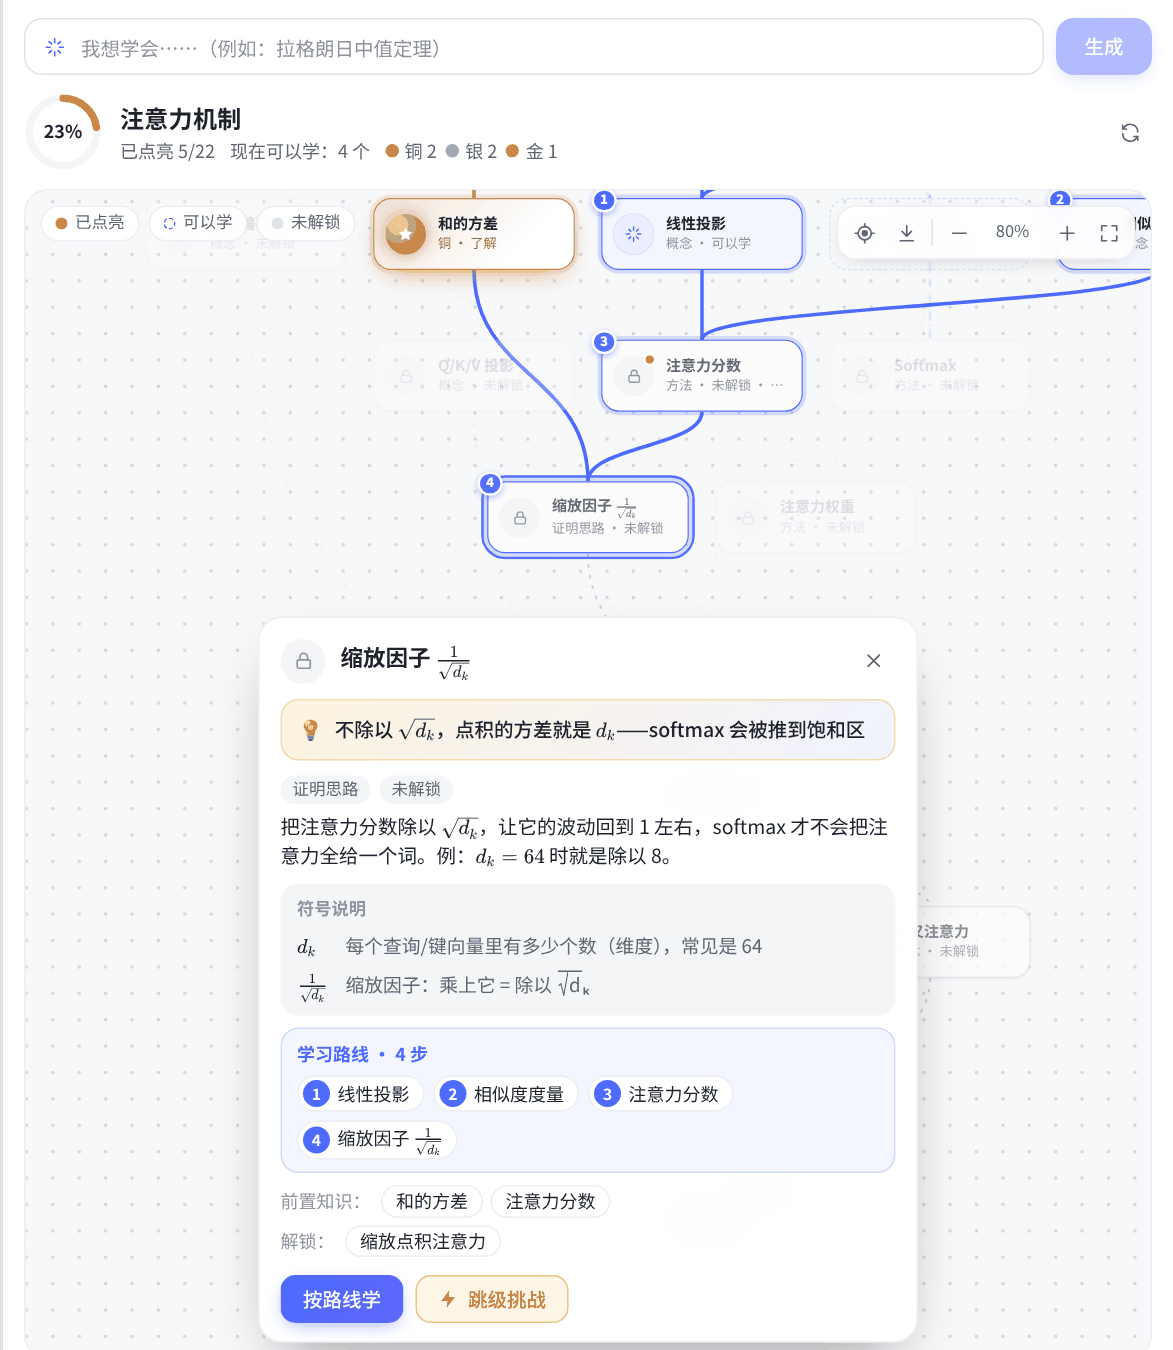
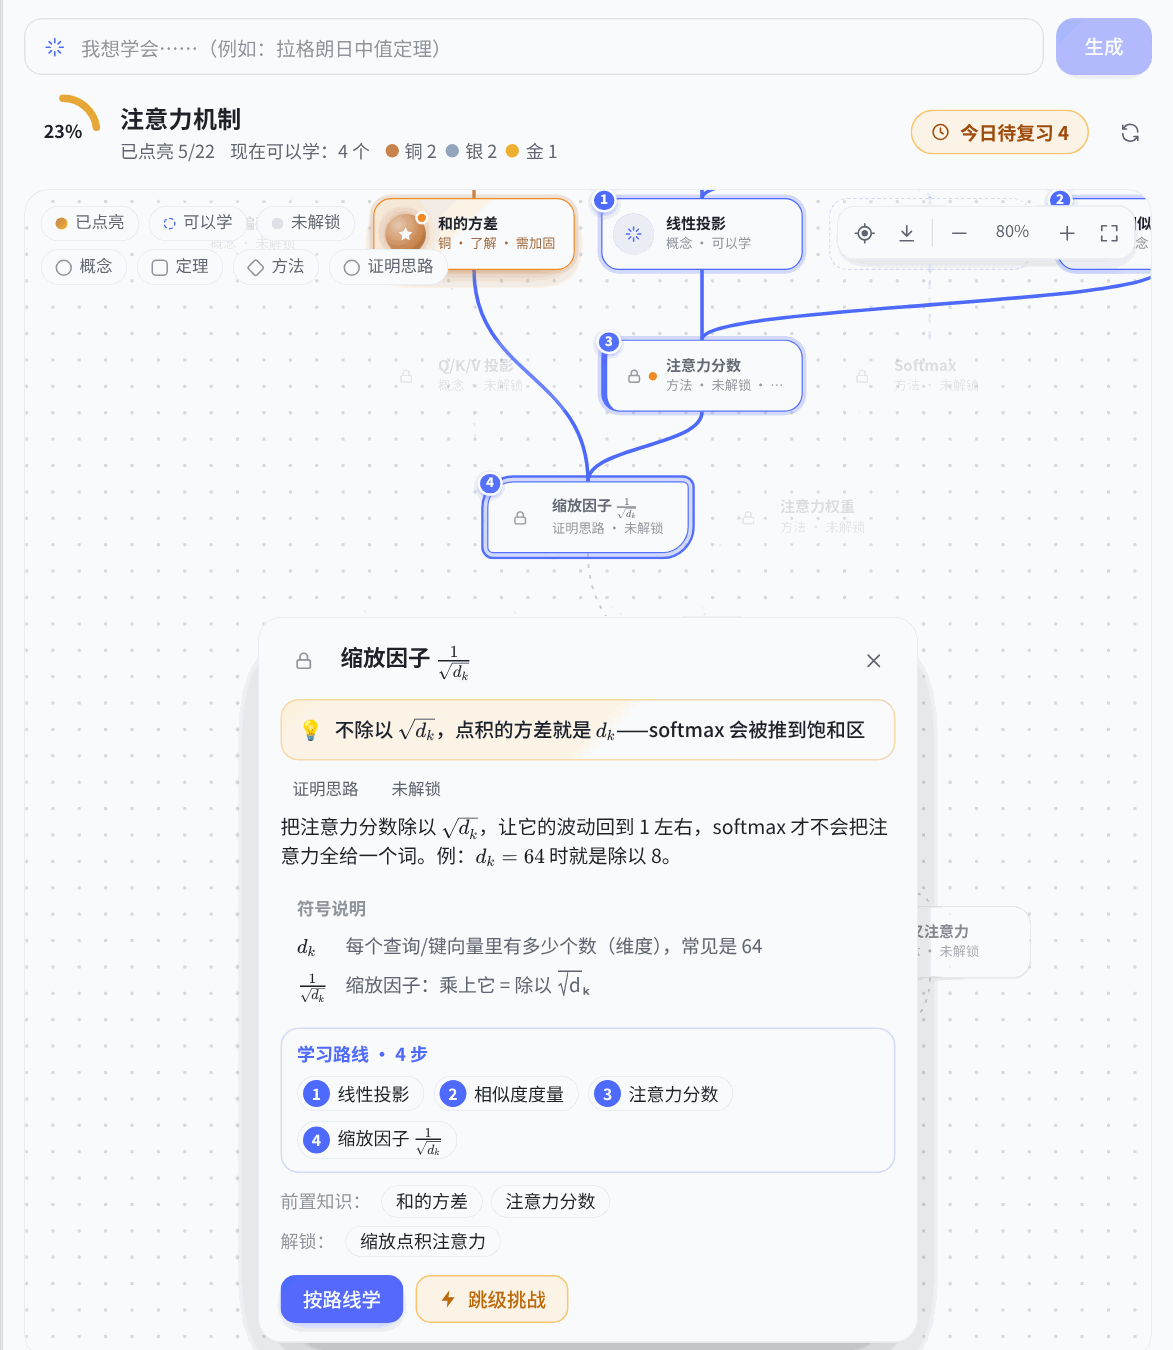
v0.5.0: today's review queue and per-type node shapes
- Today's review: weak and overdue points in one click (hero button, composer chip, left panel)
- Distinct card and badge shapes per knowledge type, larger goal node, type legend, PNG export shapes
- Mouse wheel zooms on Windows with display scaling
- README and screenshots updated

Claude-Session: https://claude.ai/code/session_01P5E4Q3Q9nfzy57pEzZzi8H

diff --git a/client.js b/client.js
@@ -108,6 +108,9 @@ window.__ModuleLoader__.load({
       'medal.summary': '铜 {b} · 银 {s} · 金 {g}',
       'export.footer': '学习天赋树 · DeepSeek Harness',
       'export.filename': '天赋树',
+      'review.today': '今日待复习 {n}',
+      'review.short': '待复习 {n}',
+      'prompt.reviewBatch': '今天要复习这 {n} 个知识点：{list}。请一个一个来：先抛出它的钩子，再出一道题考我；等我回答后用 techtree_record 更新（答得好就刷新复习时间、去掉需加固标记，答得不好就降一级或标记需加固并当场补上），然后进入下一个。全部结束后告诉我今天的复习结果。',
       'chip.open': '打开天赋树',
       'legend.lit': '已点亮',
       'legend.available': '可以学',
@@ -193,6 +196,9 @@ window.__ModuleLoader__.load({
       'medal.summary': 'Bronze {b} · Silver {s} · Gold {g}',
       'export.footer': 'Learning talent tree · DeepSeek Harness',
       'export.filename': 'talent-tree',
+      'review.today': '{n} to review today',
+      'review.short': '{n} due',
+      'prompt.reviewBatch': 'Today I need to review these {n} points: {list}. Go one at a time: open with its hook, then quiz me; after my answer update it with techtree_record (good answer: refresh the review time and clear the needs-work flag; weak answer: drop a level or mark it weak and fix the gap right away), then move on. Summarise today\'s review at the end.',
       'chip.open': 'Open talent tree',
       'legend.lit': 'Lit',
       'legend.available': 'Learnable',
@@ -397,6 +403,32 @@ html.tt-grabbing,html.tt-grabbing *{-webkit-user-select:none!important;user-sele
 .tt-tex>div>*{display:inline!important;margin:0!important;padding:0!important;color:inherit!important;font-size:inherit!important}
 .tt-tex .katex{font-size:1.08em}
 .tt-node-name .tt-tex .katex{font-size:1em}
+.tt-shape-concept{border-radius:15px}
+.tt-shape-theorem{border-radius:5px;border-width:2px}
+.tt-shape-method{border-radius:15px;border-left-width:5px;padding-left:6px}
+.tt-shape-proof_idea{border-radius:22px 5px 22px 5px}
+.tt-shape-skill{border-radius:999px;padding-left:8px}
+.tt-goal-node{scale:1.1;z-index:1}
+.tt-badge-icon{display:grid;place-items:center}
+.tt-bshape-theorem{border-radius:9px}
+.tt-bshape-method{width:29px;height:29px;margin:0 2px;border-radius:7px;transform:rotate(45deg)}
+.tt-bshape-method>.tt-badge-icon{transform:rotate(-45deg)}
+.tt-bshape-method>.tt-dot{transform:rotate(-45deg)}
+.tt-bshape-proof_idea{border-radius:50% 5px 50% 5px}
+.tt-bshape-skill{border-radius:50% 50% 50% 50%/32% 32% 68% 68%}
+.tt-legend{flex-direction:column;align-items:flex-start;gap:5px}
+.tt-legend-row{display:flex;flex-wrap:wrap;gap:6px}
+.tt-mini{display:inline-block;width:11px;height:11px;border:1.5px solid var(--tt-fg3);background:var(--tt-bg2);border-radius:50%}
+.tt-mini.tt-bshape-method{width:9px;height:9px;margin:0 1px;border-radius:2px}
+.tt-mini.tt-bshape-theorem{border-radius:3px}
+.tt-dot-fading{background:#f59e0b}
+.tt-review{display:inline-flex;align-items:center;gap:6px;flex:none;height:30px;padding:0 12px;border-radius:999px;border:1px solid color-mix(in srgb,#f59e0b 55%,transparent);background:color-mix(in srgb,#f59e0b 12%,var(--tt-bg));color:color-mix(in srgb,#b45309 85%,var(--tt-fg));font:inherit;font-size:12.5px;font-weight:650;cursor:pointer;white-space:nowrap;animation:tt-nudge 3s ease-in-out infinite}
+.tt-review:hover{background:color-mix(in srgb,#f59e0b 20%,var(--tt-bg))}
+@keyframes tt-nudge{0%,88%,100%{transform:none}92%{transform:rotate(-3deg)}96%{transform:rotate(3deg)}}
+.tt-chip-due{flex:none;margin-left:2px;padding:0 7px;border-radius:999px;font-size:10.5px;font-weight:700;line-height:18px;color:#92400e;background:#fde68a}
+.tt-lib-name{display:flex;align-items:center;justify-content:space-between;gap:6px}
+.tt-lib-name>span{overflow:hidden;text-overflow:ellipsis;white-space:nowrap}
+@media (prefers-reduced-motion:reduce){.tt-review{animation:none}}
 `
 
     function Style() {
@@ -432,6 +464,7 @@ html.tt-grabbing,html.tt-grabbing *{-webkit-user-select:none!important;user-sele
     const TargetIcon = () => svg(15, [h('circle', { key: 'a', cx: 12, cy: 12, r: 7 }), h('circle', { key: 'b', cx: 12, cy: 12, r: 2.5, fill: 'currentColor' }), h('path', { key: 'c', d: 'M12 2v3M12 19v3M2 12h3M19 12h3' })])
     const DownloadIcon = () => svg(15, [h('path', { key: 'p', d: 'M12 4v11M7 10l5 5 5-5M5 20h14' })])
     const BoltIcon = () => svg(14, [h('path', { key: 'p', d: 'M13 2 4 14h7l-1 8 9-12h-7z', fill: 'currentColor', stroke: 'none' })])
+    const ClockIcon = () => svg(14, [h('circle', { key: 'c', cx: 12, cy: 12, r: 8.5 }), h('path', { key: 'p', d: 'M12 7.5V12l3 2' })])
     const RefreshIcon = () => svg(15, [h('path', { key: 'p', d: 'M20 11a8 8 0 0 0-14.3-4.9L4 8M4 4v4h4M4 13a8 8 0 0 0 14.3 4.9L20 16M20 20v-4h-4' })])
 
     // ---- math ---------------------------------------------------------------
@@ -775,11 +808,42 @@ html.tt-grabbing,html.tt-grabbing *{-webkit-user-select:none!important;user-sele
       return due ? due.id : null
     }
 
+    const NODE_TYPES = ['concept', 'theorem', 'method', 'proof_idea', 'skill']
+
+    /** Today's review queue: points that need shoring up first, then lit points whose review is due (oldest first). */
+    function reviewQueue(nodes, now) {
+      return nodes
+        .filter(n => n.weak || fading(n, now))
+        .sort((a, b) => (b.weak ? 1 : 0) - (a.weak ? 1 : 0) || (a.reviewedAt || 0) - (b.reviewedAt || 0))
+    }
+
+    function reviewPrompt(t, due) {
+      return fill(t('prompt.reviewBatch'), { list: due.map(n => `${richToPlain(n.name)}（${n.id}）`).join('、'), n: due.length })
+    }
+
     // ---- export -------------------------------------------------------------
 
     const EXPORT_FONT = '"PingFang SC","Microsoft YaHei","Noto Sans CJK SC",system-ui,sans-serif'
     const EXPORT_MEDAL = ['', '#c8834c', '#93a4bd', '#eeb031']
     const EXPORT_TINT = ['', '#f7e9dc', '#e8eef6', '#fcf1d4']
+
+    /** Card corner radii per knowledge type (matches the .tt-shape-* styles). */
+    function exportRadii(type, h) {
+      if (type === 'theorem') return 5
+      if (type === 'proof_idea') return [22, 5, 22, 5]
+      if (type === 'skill') return h / 2
+      return 15
+    }
+
+    /** Badge outline per knowledge type (matches the .tt-bshape-* styles). */
+    function exportBadgePath(c, type, x, y, r) {
+      c.beginPath()
+      if (type === 'theorem') c.roundRect(x - r, y - r, 2 * r, 2 * r, 9)
+      else if (type === 'method') { const d = r * 1.2; c.moveTo(x, y - d); c.lineTo(x + d, y); c.lineTo(x, y + d); c.lineTo(x - d, y); c.closePath() }
+      else if (type === 'proof_idea') c.roundRect(x - r, y - r, 2 * r, 2 * r, [r, 5, r, 5])
+      else if (type === 'skill') c.roundRect(x - r, y - r, 2 * r, 2 * r, [r, r, r * 1.3, r * 1.3])
+      else c.arc(x, y, r, 0, Math.PI * 2)
+    }
 
     function fitText(c, text, max) {
       if (c.measureText(text).width <= max) return text
@@ -871,7 +935,8 @@ html.tt-grabbing,html.tt-grabbing *{-webkit-user-select:none!important;user-sele
         const m = n.mastery || 0
         c.save()
         if (state === 'lit') { c.shadowColor = EXPORT_MEDAL[m]; c.shadowBlur = 14 }
-        c.beginPath(); c.roundRect(x, y, NODE_W, cardH, 15)
+        const radii = exportRadii(n.type, cardH)
+        c.beginPath(); c.roundRect(x, y, NODE_W, cardH, radii)
         if (state === 'lit') {
           const g = c.createLinearGradient(x, y, x + NODE_W, y + cardH)
           g.addColorStop(0, EXPORT_TINT[m]); g.addColorStop(0.75, '#ffffff')
@@ -882,13 +947,18 @@ html.tt-grabbing,html.tt-grabbing *{-webkit-user-select:none!important;user-sele
         c.setLineDash(state === 'available' ? [5, 4] : [])
         c.lineWidth = goalIds.has(n.id) ? 2.4 : 1.5
         c.strokeStyle = n.weak ? '#f08a24' : state === 'lit' ? EXPORT_MEDAL[m] : state === 'available' ? '#4d6bfe' : '#d5d9df'
-        c.beginPath(); c.roundRect(x, y, NODE_W, cardH, 15); c.stroke()
+        c.lineWidth = n.type === 'theorem' ? Math.max(c.lineWidth, 2) : c.lineWidth
+        c.beginPath(); c.roundRect(x, y, NODE_W, cardH, radii); c.stroke()
+        if (n.type === 'method') {
+          c.fillStyle = c.strokeStyle
+          c.beginPath(); c.roundRect(x, y + 6, 5, cardH - 12, 2.5); c.fill()
+        }
         c.setLineDash([])
         // Badge
         const bx = x + 26
         const by = y + NODE_H / 2
         c.fillStyle = state === 'lit' ? EXPORT_MEDAL[m] : state === 'available' ? '#dfe5ff' : '#e6e8ec'
-        c.beginPath(); c.arc(bx, by, 17, 0, Math.PI * 2); c.fill()
+        exportBadgePath(c, n.type, bx, by, 17); c.fill()
         c.fillStyle = state === 'lit' ? '#ffffff' : state === 'available' ? '#4d6bfe' : '#8f959e'
         c.font = `700 15px ${EXPORT_FONT}`
         c.textAlign = 'center'
@@ -1069,8 +1139,13 @@ html.tt-grabbing,html.tt-grabbing *{-webkit-user-select:none!important;user-sele
         mini ? null : h('b', null, `${Math.round(ratio * 100)}%`))
     }
 
-    function Hero({ t, title, nodes, extra }) {
+    function Hero({ t, title, nodes, extra, onReview }) {
       const s = stats(nodes)
+      const due = reviewQueue(nodes, Date.now())
+      const review = due.length && onReview
+        ? h('button', { type: 'button', className: 'tt-review', title: due.map(n => richToPlain(n.name)).join('、'), onClick: () => onReview(due) },
+          h(ClockIcon), fill(t('review.today'), { n: due.length }))
+        : null
       return h('div', { className: 'tt-hero' },
         h(ProgressRing, { lit: s.lit, total: s.total }),
         h('div', { className: 'tt-hero-text' },
@@ -1080,6 +1155,7 @@ html.tt-grabbing,html.tt-grabbing *{-webkit-user-select:none!important;user-sele
             h('span', null, fill(t('frontier'), { n: s.frontier })),
             h('span', { className: 'tt-medals' }, [1, 2, 3].map(level => h('span', { key: level, className: 'tt-medal', title: t(`level.${level}`) },
               h('i', { style: { background: ['', '#c8834c', '#93a4bd', '#eeb031'][level] } }), `${t(`medal.${level}`)} ${s.medals[level]}`))))),
+        review,
         extra || null)
     }
 
@@ -1121,7 +1197,7 @@ html.tt-grabbing,html.tt-grabbing *{-webkit-user-select:none!important;user-sele
         if (!el || !el.clientWidth || !el.clientHeight) return null
         // Room for the legend / zoom bar above and the hint below.
         const padX = 28
-        const padTop = 58
+        const padTop = 92
         const padBottom = 40
         const k = clamp(Math.min((el.clientWidth - padX * 2) / width, (el.clientHeight - padTop - padBottom) / height, 1), MIN_ZOOM, 1)
         return { k, x: (el.clientWidth - width * k) / 2, y: Math.max(padTop, padTop + (el.clientHeight - padTop - padBottom - height * k) / 2) }
@@ -1209,7 +1285,10 @@ html.tt-grabbing,html.tt-grabbing *{-webkit-user-select:none!important;user-sele
         const onWheel = event => {
           event.preventDefault()
           const rect = el.getBoundingClientRect()
-          const mouseWheel = event.deltaMode !== 0 || (event.deltaX === 0 && Math.abs(event.deltaY) >= 40 && Number.isInteger(event.deltaY))
+          // A mouse wheel moves in notches (wheelDelta multiples of 120, or line/page mode); with
+          // display scaling its pixel delta is fractional, so the delta alone cannot tell it apart.
+          const notch = typeof event.wheelDeltaY === 'number' && event.wheelDeltaY !== 0 && event.wheelDeltaY % 120 === 0
+          const mouseWheel = event.deltaMode !== 0 || (event.deltaX === 0 && (notch || Math.abs(event.deltaY) >= 50))
           if (event.ctrlKey || event.metaKey || mouseWheel) {
             zoomAt(event.clientX - rect.left, event.clientY - rect.top, Math.exp(-clamp(event.deltaY, -60, 60) * (event.ctrlKey ? 0.01 : 0.004)))
           } else {
@@ -1311,9 +1390,18 @@ html.tt-grabbing,html.tt-grabbing *{-webkit-user-select:none!important;user-sele
 
     function Badge({ state, node, isGoal }) {
       const icon = state === 'lit' ? h(StarIcon) : state === 'available' ? h(SparkIcon, { size: 16 }) : isGoal ? h(FlagIcon) : h(LockIcon)
+      const shape = `tt-bshape-${NODE_TYPES.includes(node.type) ? node.type : 'concept'}`
       const cls = state === 'lit' ? `tt-badge tt-badge-lit tt-m-${node.mastery}` : state === 'available' ? 'tt-badge tt-badge-available' : isGoal ? 'tt-badge tt-badge-goal' : 'tt-badge'
-      return h('span', { className: cls }, icon,
-        node.weak ? h('i', { className: 'tt-dot tt-dot-weak' }) : null)
+      return h('span', { className: `${cls} ${shape}` }, h('span', { className: 'tt-badge-icon' }, icon),
+        node.weak ? h('i', { className: 'tt-dot tt-dot-weak' }) : fading(node, Date.now()) ? h('i', { className: 'tt-dot tt-dot-fading' }) : null)
+    }
+
+    /** Small badge-shaped swatch per knowledge type, for the legend. */
+    function TypeLegend({ t, nodes }) {
+      const present = NODE_TYPES.filter(type => nodes.some(n => (n.type || 'concept') === type))
+      if (present.length < 2) return null
+      return h('div', { className: 'tt-legend-row' }, present.map(type => h('span', { key: type, className: 'tt-pill' },
+        h('span', { className: `tt-mini tt-bshape-${type}` }), t(`type.${type}`))))
     }
 
     const SPARKS = [0, 45, 90, 135, 180, 225, 270, 315]
@@ -1359,7 +1447,7 @@ html.tt-grabbing,html.tt-grabbing *{-webkit-user-select:none!important;user-sele
           const isGoal = goalIds.has(n.id)
           const fade = fading(n, now)
           const lit = celebrate && celebrate.ids.has(n.id)
-          const cls = ['tt-node',
+          const cls = ['tt-node', `tt-shape-${NODE_TYPES.includes(n.type) ? n.type : 'concept'}`,
             state === 'lit' ? `tt-lit-${n.mastery}` : `tt-${state}`,
             fade ? 'tt-fading' : '',
             n.weak ? 'tt-weak' : '',
@@ -1525,9 +1613,11 @@ html.tt-grabbing,html.tt-grabbing *{-webkit-user-select:none!important;user-sele
           () => notify(t('toast.exportFailed')))
       }
       const legend = h('div', { className: 'tt-overlay tt-legend' },
-        h('span', { className: 'tt-pill' }, h('i', { style: { background: 'linear-gradient(135deg,#c8834c,#eeb031)' } }), t('legend.lit')),
-        h('span', { className: 'tt-pill' }, h('i', { style: { border: '1.5px dashed var(--tt-brand)' } }), t('legend.available')),
-        h('span', { className: 'tt-pill' }, h('i', { style: { background: 'var(--tt-line)' } }), t('legend.locked')))
+        h('div', { className: 'tt-legend-row' },
+          h('span', { className: 'tt-pill' }, h('i', { style: { background: 'linear-gradient(135deg,#c8834c,#eeb031)' } }), t('legend.lit')),
+          h('span', { className: 'tt-pill' }, h('i', { style: { border: '1.5px dashed var(--tt-brand)' } }), t('legend.available')),
+          h('span', { className: 'tt-pill' }, h('i', { style: { background: 'var(--tt-line)' } }), t('legend.locked'))),
+        h(TypeLegend, { t, nodes }))
       const tools = h(React.Fragment, null,
         recommended ? h('button', { type: 'button', className: 'tt-icon-btn', title: t('action.recommend'), 'aria-label': t('action.recommend'), onClick: locate }, h(TargetIcon)) : null,
         h('button', { type: 'button', className: 'tt-icon-btn', title: t('action.export'), 'aria-label': t('action.export'), onClick: doExport }, h(DownloadIcon)),
@@ -1573,7 +1663,7 @@ html.tt-grabbing,html.tt-grabbing *{-webkit-user-select:none!important;user-sele
           ? h(Empty, { t })
           : h(React.Fragment, null,
             h(Hero, {
-              t, title, nodes,
+              t, title, nodes, onReview: due => act(reviewPrompt(t, due)),
               extra: h('button', { type: 'button', className: 'tt-icon-btn', title: t('action.refresh'), 'aria-label': t('action.refresh'), onClick: () => act(t('prompt.refresh')) }, h(RefreshIcon)),
             }),
             h(Stage, { t, title, nodes, goalIds, act, fitKey: `${goalKey}:${nodes.length}` })))
@@ -1641,7 +1731,7 @@ html.tt-grabbing,html.tt-grabbing *{-webkit-user-select:none!important;user-sele
                 'aria-current': entry && entry.goal.id === e.goal.id ? 'true' : 'false',
                 onClick: () => setPicked(e.goal.id),
               },
-              h('span', { className: 'tt-lib-name' }, e.goal.name),
+              h('span', { className: 'tt-lib-name' }, h('span', null, e.goal.name), reviewQueue(e.nodes, now).length ? h('b', { className: 'tt-chip-due' }, fill(t('review.short'), { n: reviewQueue(e.nodes, now).length })) : null),
               h('span', { className: 'tt-bar' }, h('i', { style: { width: `${s.total ? (s.lit / s.total) * 100 : 0}%` } })),
               h('span', { className: 'tt-lib-row' }, h('span', null, fill(t('progress'), { lit: s.lit, total: s.total })), h('span', null, fill(t('medal.summary'), { b: s.medals[1], s: s.medals[2], g: s.medals[3] }))))
             })),
@@ -1651,7 +1741,7 @@ html.tt-grabbing,html.tt-grabbing *{-webkit-user-select:none!important;user-sele
             ? h(Empty, { t, body: t('library.empty') })
             : h(React.Fragment, null,
               h(Hero, {
-                t, title: entry.goal.name, nodes: entry.nodes,
+                t, title: entry.goal.name, nodes: entry.nodes, onReview: due => resume(reviewPrompt(t, due)),
                 extra: h('button', { type: 'button', className: 'tt-btn tt-btn-primary', onClick: () => resume(t('prompt.continue')) }, t('action.continue')),
               }),
               h(Stage, { key: entry.goal.id, t, title: entry.goal.name, nodes: entry.nodes, goalIds, act: resume, fitKey: `${entry.goal.id}:${entry.nodes.length}` }))))
@@ -1671,10 +1761,12 @@ html.tt-grabbing,html.tt-grabbing *{-webkit-user-select:none!important;user-sele
       useEffect(() => { rememberSnapshot(snapshot) }, [snapshot])
       if (!snapshot || !Array.isArray(snapshot.nodes) || snapshot.nodes.length === 0) return null
       const s = stats(snapshot.nodes)
-      const goal = snapshot.goals.map(g => g.name).join(' · ')
+      const due = reviewQueue(snapshot.nodes, Date.now()).length
+      const goal = snapshot.goals.map(g => richToPlain(g.name)).join(' · ')
       return h('div', { className: 'tt-scope' }, h(Style), h('button', {
         type: 'button', className: 'tt-chip', title: t('chip.open'), onClick: openTree,
-      }, h(ProgressRing, { lit: s.lit, total: s.total, size: 20 }), h('span', null, `${goal} · ${fill(t('progress'), { lit: s.lit, total: s.total })}`)))
+      }, h(ProgressRing, { lit: s.lit, total: s.total, size: 20 }), h('span', null, `${goal} · ${fill(t('progress'), { lit: s.lit, total: s.total })}`),
+      due ? h('b', { className: 'tt-chip-due' }, fill(t('review.short'), { n: due })) : null))
     }
 
     let boundT = key => key

diff --git a/test/client.test.js b/test/client.test.js
@@ -274,3 +274,41 @@ test('formulas render: $…$ through the built-in TeX renderer, bare √x and x_
     stateImpl = defaultState
   }
 })
+
+test('today\'s review: weak and overdue points, one click quizzes them in order', async () => {
+  const { registrations } = await loadClient()
+  const body = registrations.slots.find(s => s.options.name === 'sidebar.right.pane.tab').component
+  const t = translate(registrations.dicts.techtree)
+  const sent = []
+  const inputActions = { setDraft: d => sent.push(d), submit: () => sent.push('<submit>') }
+  const tree = render(fakeReact.createElement(body, { t, inputActions, useProjection: () => snapshot }))
+  const review = collect(tree, el => el.props.className === 'tt-review')[0]
+  assert.ok(review, 'review button shows when something is due')
+  assert.match(text(review), /今日待复习 2/) // derivative (weak) + continuity (bronze, 10 days)
+  review.props.onClick()
+  assert.match(sent[0], /今天要复习这 2 个知识点：导数的定义（derivative）、连续性（continuity）/)
+  assert.equal(sent[1], '<submit>')
+  // Nothing due: no button.
+  const fresh = { ...snapshot, nodes: snapshot.nodes.map(n => ({ ...n, weak: false, reviewedAt: Date.now() })) }
+  const calm = render(fakeReact.createElement(body, { t, inputActions, useProjection: () => fresh }))
+  assert.equal(collect(calm, el => el.props.className === 'tt-review').length, 0)
+  // The composer chip carries the count too.
+  const chipReg = registrations.slots.find(s => s.options.name === 'conversation.composer.dock')
+  const chip = render(fakeReact.createElement(chipReg.component, { t, ...chipReg.options.inject('s'), useProjection: () => snapshot }))
+  assert.match(text(chip), /待复习 2/)
+})
+
+test('each knowledge type gets its own card and badge shape, plus a legend', async () => {
+  const { registrations } = await loadClient()
+  const body = registrations.slots.find(s => s.options.name === 'sidebar.right.pane.tab').component
+  const t = translate(registrations.dicts.techtree)
+  const tree = render(fakeReact.createElement(body, { t, inputActions: { setDraft() {}, submit() {} }, useProjection: () => snapshot }))
+  const node = id => collect(tree, el => el.props['data-node'] === id)[0]
+  assert.match(node('limit').props.className, /tt-shape-concept/)
+  assert.match(node('rolle_theorem').props.className, /tt-shape-theorem/)
+  assert.match(node('auxiliary_function').props.className, /tt-shape-method/)
+  const badge = collect(node('auxiliary_function'), el => String(el.props.className).startsWith('tt-badge '))[0]
+  assert.match(badge.props.className, /tt-bshape-method/)
+  const legend = collect(tree, el => el.props.className === 'tt-overlay tt-legend')[0]
+  assert.match(text(legend), /概念.*定理.*方法/)
+})
